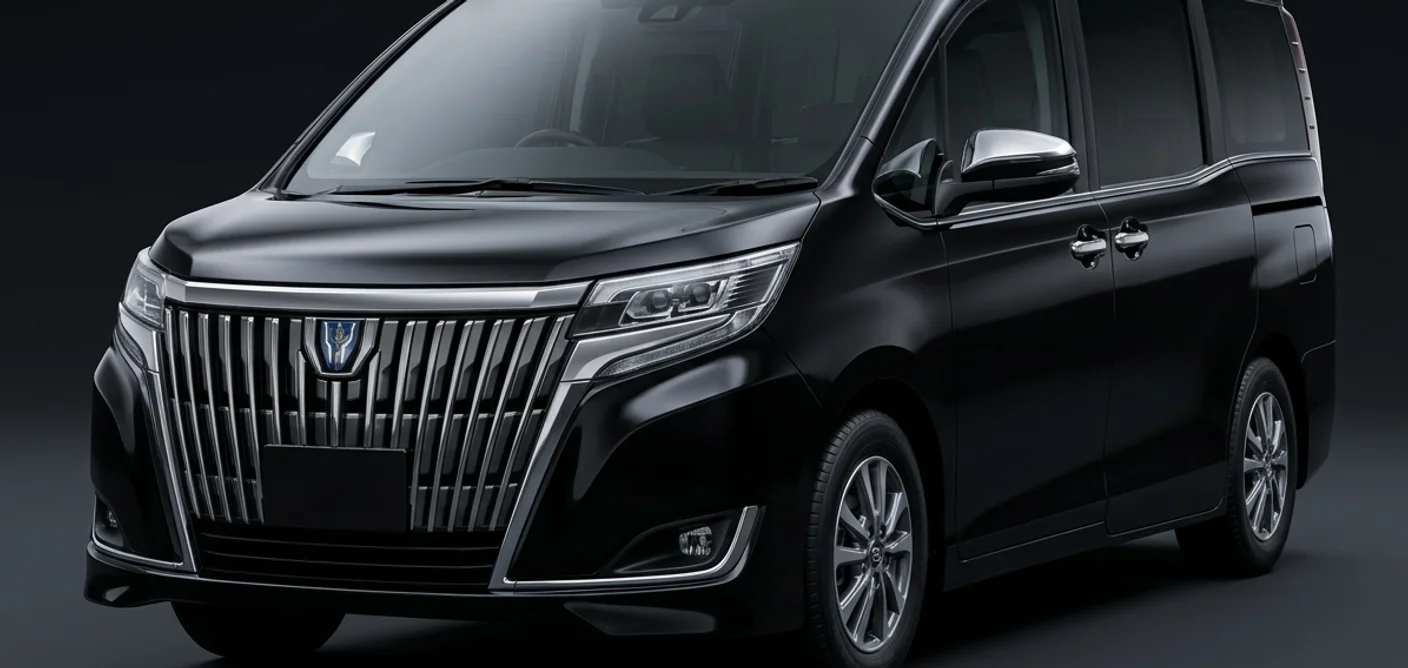
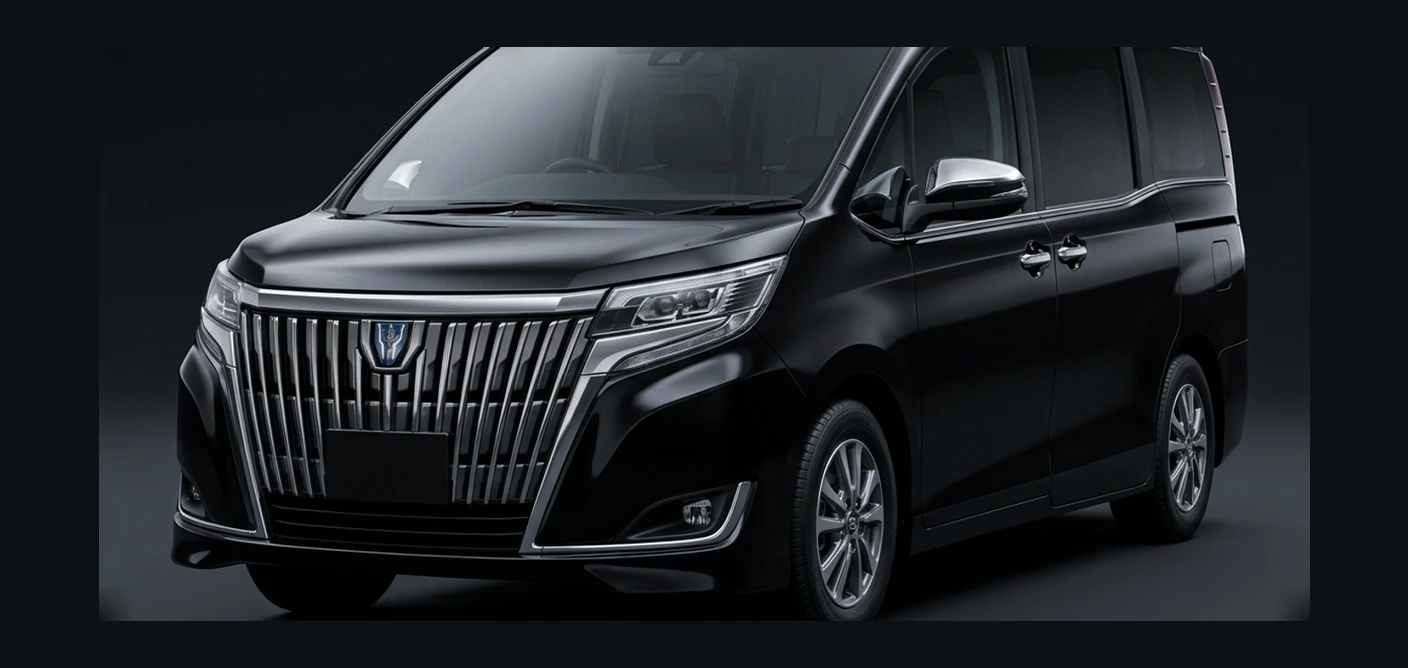
revert: Sienta/Solio back to unedited photos; fix: Esquire top/bottom crop
Sienta and Solio hit the exact same background-unification artifact as
Delica (same commit, same technique) -- reverted both straight back to
the pre-edit files (git commit a074b2b), matching the Delica revert.

Esquire's gen1 source photo had zero margin top and bottom (roofline
touched row 0, front tire touched the last row -- genuinely cropped,
confirmed by viewing the top/bottom strips directly). Fixed non-
destructively: scaled the image down 14% (uniform, no distortion) and
centered it on the same 1408x668 canvas, padded with the photo's own
background color with a feathered edge so the resize doesn't show a
hard seam. Car pixels are unchanged, just smaller with real margin.

diff --git a/src/cars/solio.js b/src/cars/solio.js
@@ -11,26 +11,22 @@
 // confidence (date + concrete content) to publish -- a gap to close in a
 // future pass, not filled with invented history.
 //
-// gen1-4 images (2026-08-01): background unified with VOXY/SERENA/
-// STEPWGN's own measured studio formula -- those three, sampled at
-// pure-background edge columns, all showed a purely vertical (not
-// radial; left/right edges matched) brightening gradient from near-
-// black at the top to a moderate mid-gray at the bottom. SOLIO's own
-// background measured flat 0-24 at every row (no gradient at all),
-// which is what read as a different, cheaper-looking studio.
-// Car/background separation used border flood-fill (seed every border
-// pixel, grow through neighbors within a per-row color tolerance of a
-// guaranteed-background column), not a per-pixel color-distance
-// threshold -- the first attempt at this exact fix used a plain
-// threshold and it corrupted the car body (dark shadow/tint pixels
-// inside the silhouette matched the background tone by coincidence and
-// got overwritten). Flood fill can't make that mistake: a pixel only
-// counts as background if there's a continuous background-colored path
-// connecting it to the image border, so an isolated dark patch inside
-// the car is topologically unreachable even when its raw color matches.
-// Verified per image: a red-tinted mask preview showed the full car
-// silhouette protected before any pixel was touched, and a post-edit
-// diff confirmed zero byte changes inside the protected region.
+// gen1-4 images (2026-08-01, tried and reverted same day): attempted a
+// background-only brightness unification with VOXY/SERENA/STEPWGN's own
+// studio formula (vertical gradient, border-flood-fill car/background
+// separation -- see git history on this block for the technique, which
+// did provably leave car pixels byte-identical). Passed every check run
+// in-session (build, diff-against-original, DOM), but an actual phone
+// screenshot showed a visibly smudgy/patchy gray cloud under the car in
+// Timeline and Detail -- the flood-fill's conservative "leave it if
+// unsure" fallback left disconnected background patches unprocessed,
+// which read as a real artifact at true viewing size even though this
+// session's own tooling never caught it. Reverted straight back to the
+// pre-edit files (git commit a074b2b). **Do not re-attempt this same
+// background-grading approach without a real device screenshot to
+// verify against -- this exact defect was missed twice (Delica hit it
+// first, same day, same technique, see src/cars/delica-d5.js).** These
+// four files are, once again, untouched exactly as originally supplied.
 const generations = [
   {
     numeral: 'I',

diff --git a/src/cars/esquire.js b/src/cars/esquire.js
@@ -21,6 +21,20 @@
 //
 // Annotation x/y coordinates were measured directly against this
 // vehicle's actual (user-supplied) photo.
+//
+// gen1-2014 image (2026-08-01): the supplied source photo had zero
+// margin top and bottom -- the roofline touched row 0 and the front
+// tire/bumper touched the last row, both genuinely cropped (confirmed
+// by cropping and viewing the top/bottom strips directly, not just
+// eyeballing the full frame), unlike every other vehicle's photo on
+// the site. There's no more of the original photo to recover past that
+// crop, so fixed it non-destructively: scaled the whole image down 14%
+// (uniform, no distortion) and centered it on the same 1408x668 canvas,
+// padded with the photo's own background color (sampled from its own
+// clean top corners) with a ~36px feathered alpha edge so the resized
+// photo blends into the pad instead of showing a hard rectangle seam.
+// Car pixels themselves are unchanged, just smaller within the frame
+// with real breathing room on every side now.
 const generations = [
   {
     numeral: 'I',

diff --git a/src/cars/sienta.js b/src/cars/sienta.js
@@ -12,11 +12,12 @@
 // all) -- a gap to close in a future pass, not filled with invented
 // history.
 //
-// gen1-3 images (2026-08-01): background unified with VOXY/SERENA/
-// STEPWGN's studio formula (same pass, same technique -- see the
-// matching comment in solio.js for the full account, including why a
-// naive per-pixel threshold corrupted the car body on the first
-// attempt and had to be reverted in favor of border flood-fill).
+// gen1-3 images (2026-08-01, tried and reverted same day): same
+// background-unification attempt and same revert as solio.js -- see
+// that file's comment for the full account. A real phone screenshot
+// showed the same smudgy gray-patch artifact under the car; reverted
+// straight back to the pre-edit files (git commit a074b2b). These three
+// files are, once again, untouched exactly as originally supplied.
 const generations = [
   {
     numeral: 'I',
